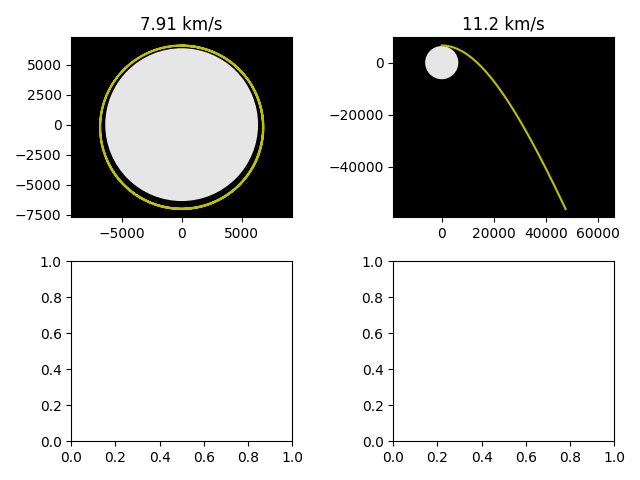
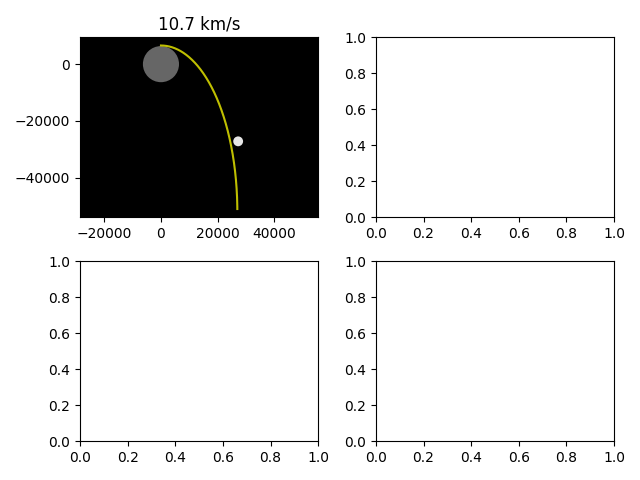
мегахорош почти сделал код

diff --git a/projects.py b/projects.py
@@ -7,24 +7,16 @@ from scipy.constants import G
 G /= 1.e9
 
 # Planet radius, km
-Rearth = 6371
-Rmoon = 1737
+R = 6371
 
 # Planet mass, kg
-Mearth = 5.9722e24
-Mmoon = 7.36e22
-EMdistance = 3.84e4
-fac = G * Mearth 
-facmoon = G * Mmoon
+M = 5.9722e24
 
+fac = G * M
 def calc_a(r):
     """Calculate the acceleration of the rocket due to gravity at position r."""
     r3 = np.hypot(*r)**3
     return -fac * r / r3
-def calc_amoon(r):
-    """Calculate the acceleration of the rocket due to gravity at position r."""
-    r3 = np.hypot(*r)**3
-    return -facmoon * r / r3
 
 def get_trajectory(h, launch_speed, launch_angle):
     """Do the (very simple) numerical integration of the equation of motion.
@@ -39,20 +31,17 @@ def get_trajectory(h, launch_speed, launch_angle):
 
     N = 100000
     tgrid, dt = np.linspace(0, 15000, N, retstep=True)
-    # create an array of points of trajectory
     tr = np.empty((N,2))
-    # array of velocity in every point
     v = np.empty((N,2))
     # Initial rocket position, velocity and acceleration
-    tr[0] = 0, Rearth + h
-   
+    tr[0] = 0, R + h
     v[0] = v0 * np.sin(theta), v0 * np.cos(theta)
-    a = 0
+    a = 3
 
     for i, t in enumerate(tgrid[1:]):
         # Calculate the rocket's next position based on its instantaneous velocity.
         r = tr[i] + v[i]*dt
-        if np.hypot(*r) < Rearth:
+        if np.hypot(*r) < R:
             # Our rocket crashed.
             break
         # Update the rocket's position, velocity and acceleration.
@@ -64,17 +53,15 @@ def get_trajectory(h, launch_speed, launch_angle):
 
 # Rocket initial speed (km.s-1), angle from local vertical (deg)
 launch_speed, launch_angle = 2.92, 90
-# Rocket launch altitude (km)
+# Rocket launch altitute (km)
 h = 200
 tr = get_trajectory(h, launch_speed, launch_angle)
 
 def plot_trajectory(ax, tr):
     """Plot the trajectory tr on Axes ax."""
-    earth_circle = Circle((0,0), Rearth, facecolor=(0.4, 0.4, 0.4))
-    moon_circle = Circle((EMdistance/1.41, -EMdistance/1.41), Rmoon, facecolor=(0.9,0.9,0.9))
+    earth_circle = Circle((0,0), R, facecolor=(0.9,0.9,0.9))
     ax.set_facecolor('k')
     ax.add_patch(earth_circle)
-    ax.add_patch(moon_circle)
     ax.plot(*tr.T, c='y')
     # Make sure our planet looks circular!
     ax.axis('equal')
@@ -87,9 +74,8 @@ def plot_trajectory(ax, tr):
     ax.set_xlim(xmin - PAD*dx, xmax + PAD*dx)
     ax.set_ylim(ymin - PAD*dy, ymax + PAD*dy)
 
-
 fig, axes = plt.subplots(nrows=2, ncols=2)
-for i, launch_speed in enumerate([10.7]):
+for i, launch_speed in enumerate([8.8]):
     tr = get_trajectory(h, launch_speed, launch_angle)
     ax = axes[i//2,i%2]
     plot_trajectory(ax, tr)
